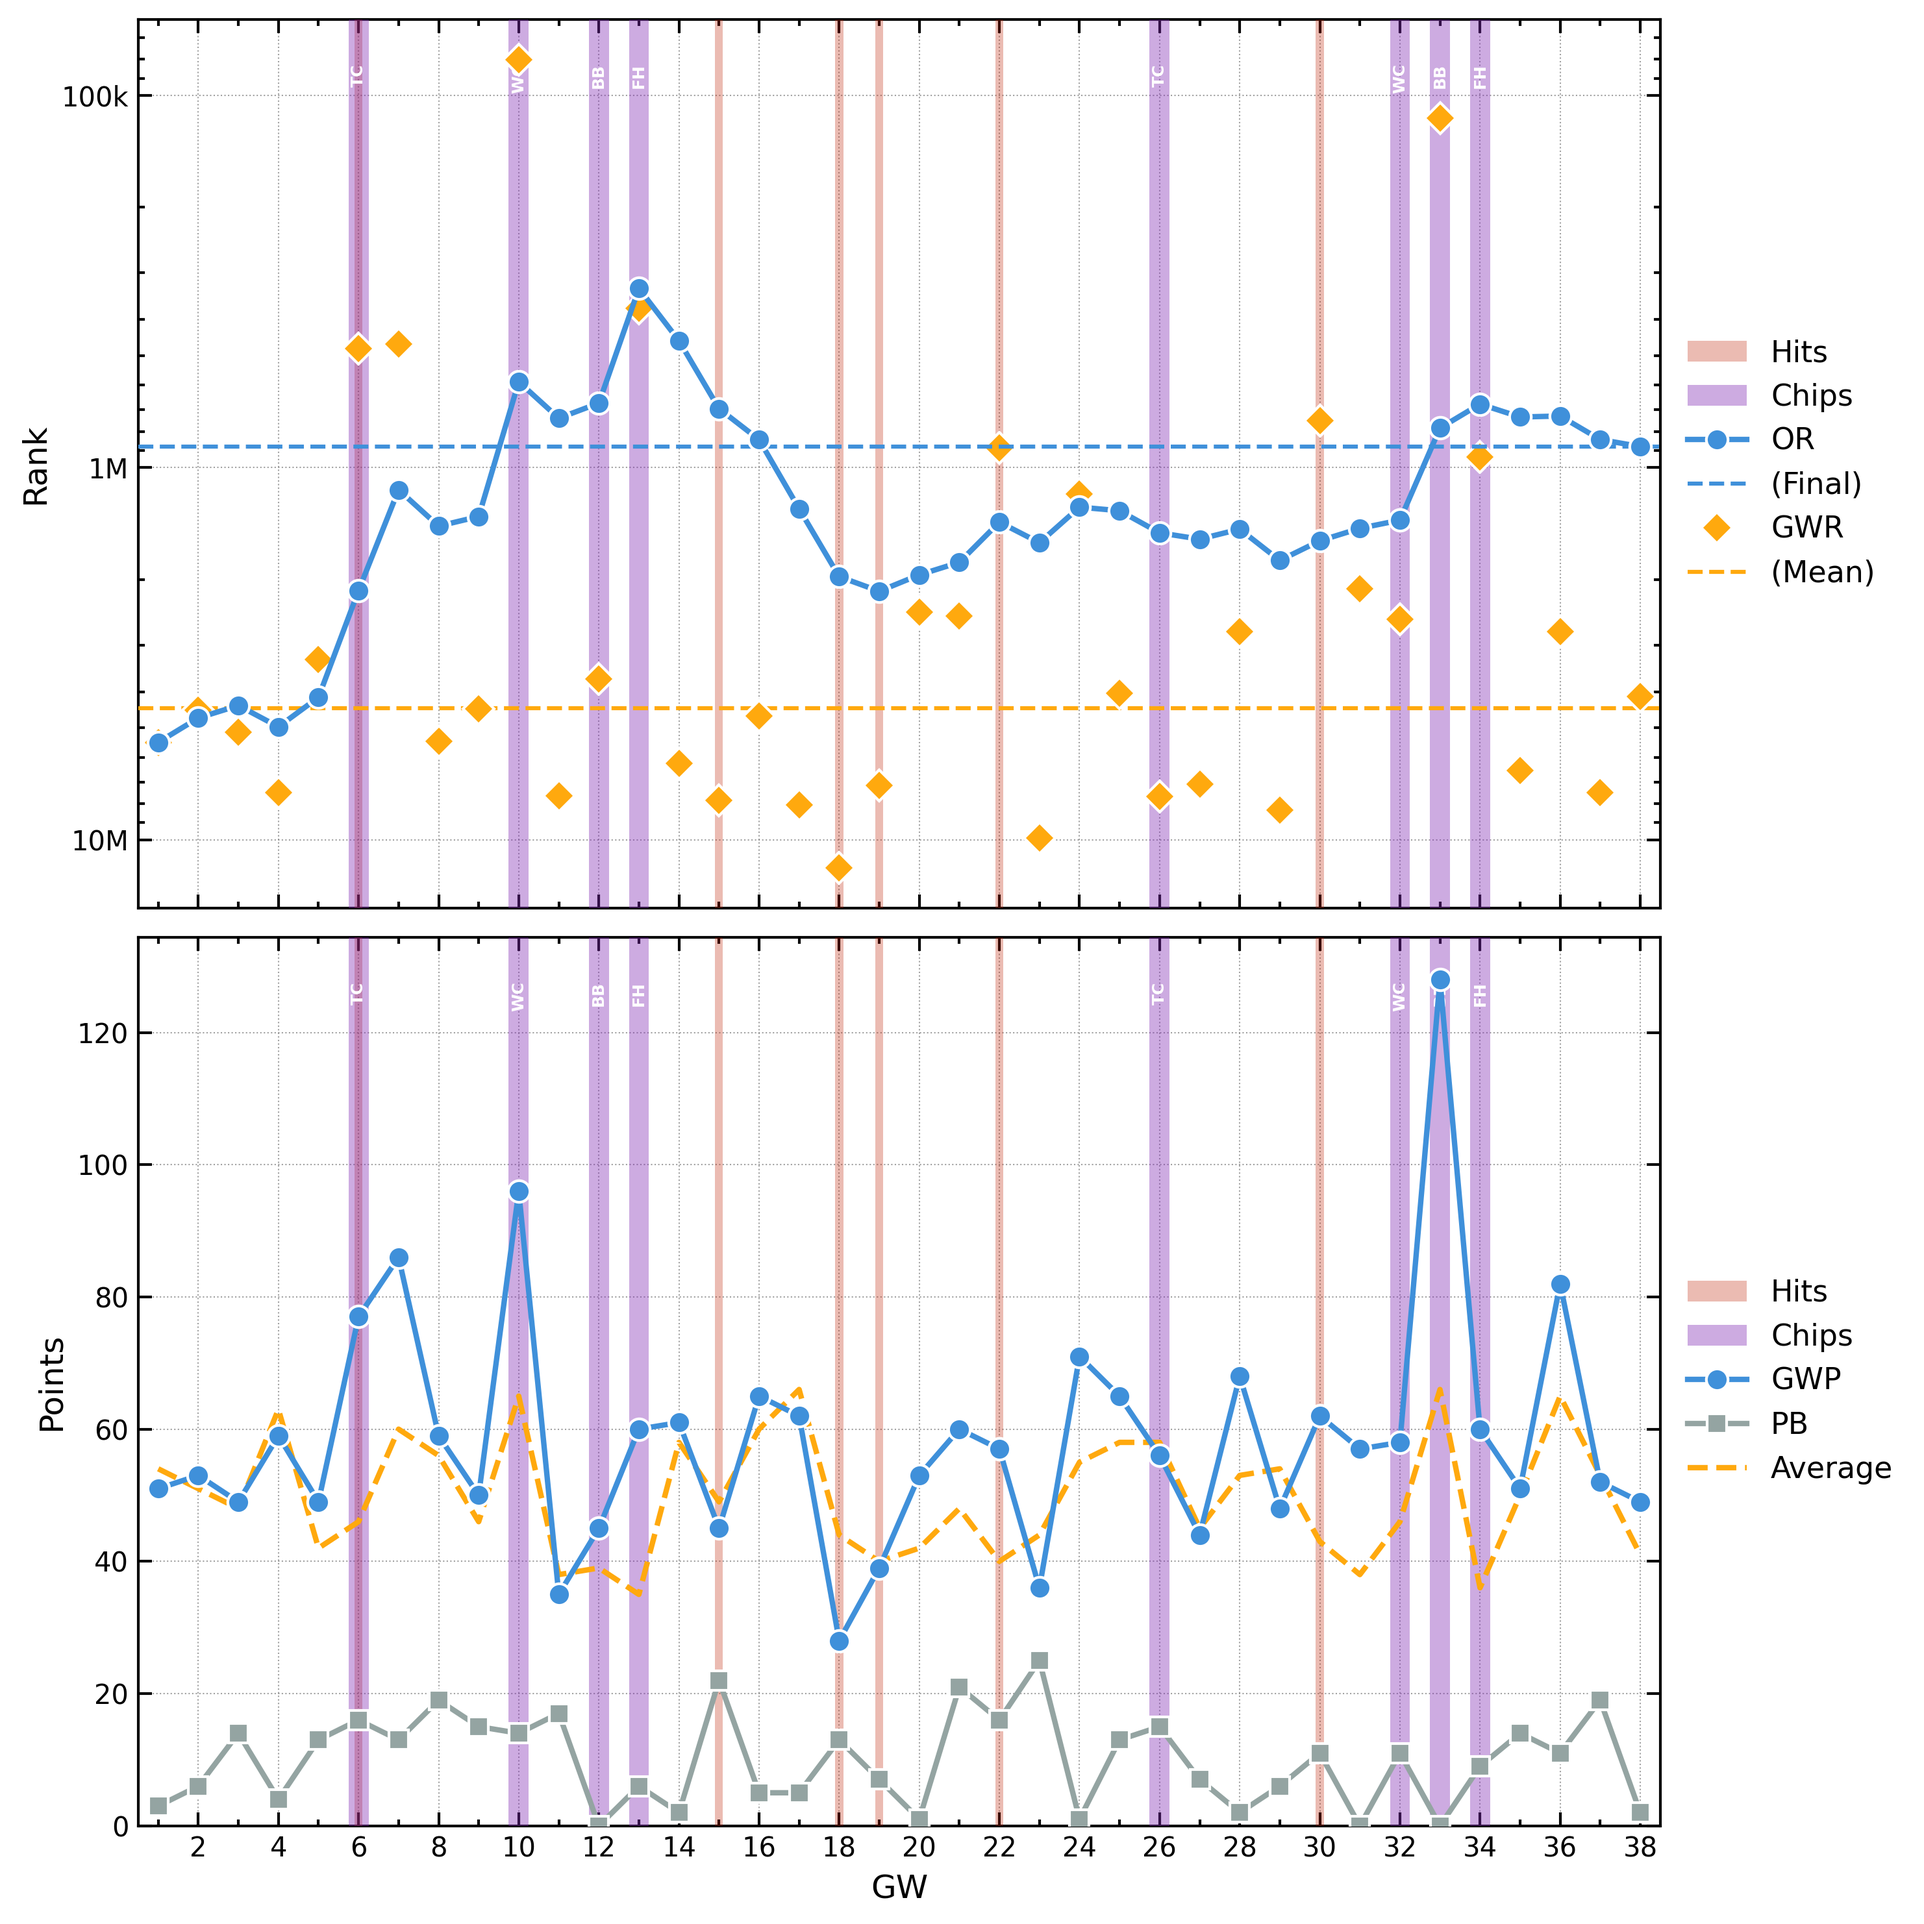
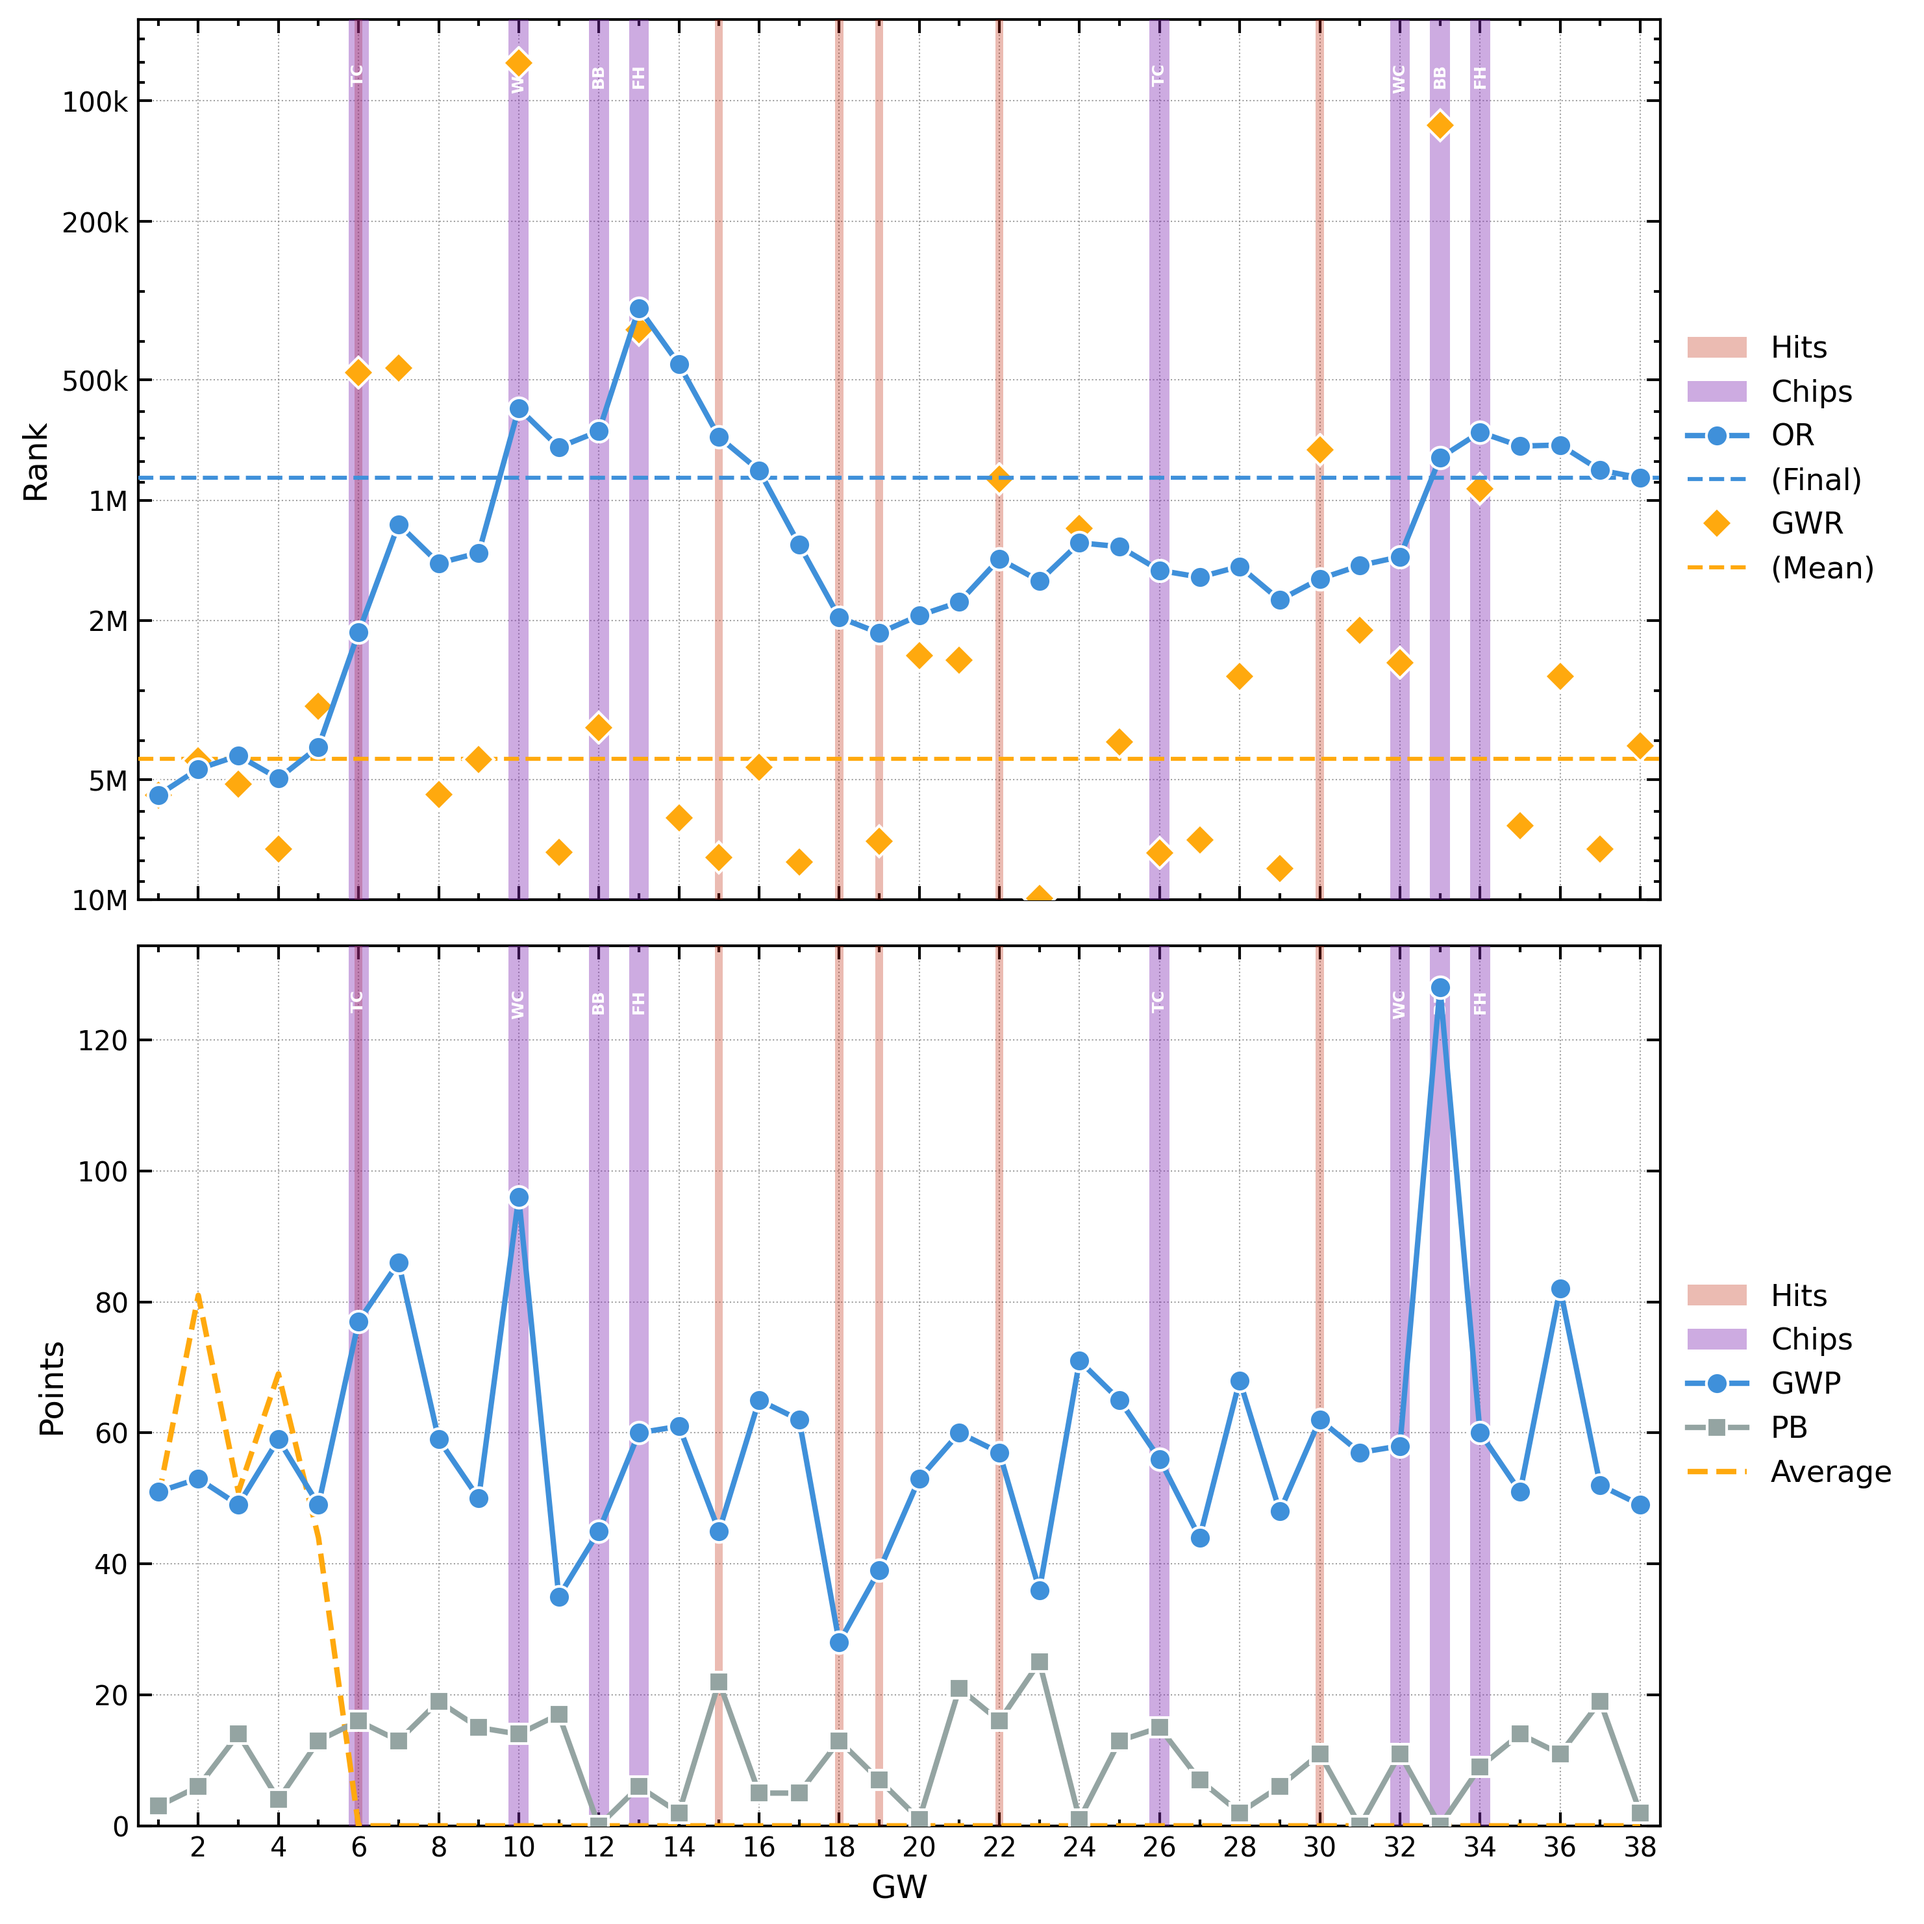
Cap rank y-axis at 10M with 1/2/5 decade ticks (#3)
* Cap rank axis at 10M and add 2x/5x decade ticks

Caps the worst-rank end of the log y-axis at 10M (tighter if data
allows) instead of letting it grow unbounded, and adds major ticks at
1x/2x/5x per decade so labels like 500k, 2M, 5M appear alongside the
existing powers of ten.

Claude-Session: https://claude.ai/code/session_01XA91YR1Gj6eRh5VAtAL1CS

* Round rank axis cap to the nearest nice tick instead of raw autoscale

matplotlib's default log-scale margin left the axis bottom at an
arbitrary value like 9.09M, which landed between the 5M and 10M
ticks and clipped the 10M label out of view. Now the bound is
rounded up to the next 1/2/5-per-decade tick (still capped at 10M),
so the axis edge always lands on a labeled gridline.

Claude-Session: https://claude.ai/code/session_01XA91YR1Gj6eRh5VAtAL1CS

---------

diff --git a/visualize.py b/visualize.py
@@ -3,7 +3,7 @@
 import csv
 from pathlib import Path
 import matplotlib.pyplot as plt
-from matplotlib.ticker import MultipleLocator, FuncFormatter
+from matplotlib.ticker import MultipleLocator, FuncFormatter, LogLocator
 import numpy as np
 
 plt.style.use(["petroff10", Path(__file__).parent / "fplot.mplstyle"])
@@ -108,6 +108,18 @@ def load_fpl_data(csv_path):
         data[key] = [data[key][i] for i in sorted_indices]
 
     return data
+
+
+def next_nice_rank_bound(value, cap=1e7):
+    """Round value up to the next 1/2/5 * 10^n tick, capped at `cap`."""
+    value = min(value, cap)
+    exponent = int(np.floor(np.log10(value))) - 1
+    while True:
+        for m in (1, 2, 5):
+            candidate = m * (10.0**exponent)
+            if candidate >= value:
+                return min(candidate, cap)
+        exponent += 1
 
 
 def format_rank(value, pos):
@@ -425,6 +437,12 @@ def plot_rank_evolution(csv_path, ax=None):
     ax.set_yscale("log")
     ax.invert_yaxis()  # Invert so better ranks (lower values) are at the top
 
+    # Cap the worst-rank end of the axis at the next nice tick, max 10M
+    worst_rank = max(data["or_vals"] + [g for g in data["gwr"] if g is not None])
+    bottom = next_nice_rank_bound(worst_rank, cap=1e7)
+    _, top = ax.get_ylim()
+    ax.set_ylim(bottom, top)
+
     # Set x-axis limits and ticks
     ax.set_xlim(0.5, 38.5)
 
@@ -432,7 +450,8 @@ def plot_rank_evolution(csv_path, ax=None):
     ax.xaxis.set_major_locator(MultipleLocator(2))
     ax.xaxis.set_minor_locator(MultipleLocator(1))
 
-    # Y-axis: custom formatter for human-readable ranks
+    # Y-axis: ticks at 1x/2x/5x per decade (e.g. 500k, 1M, 2M, 5M, 10M)
+    ax.yaxis.set_major_locator(LogLocator(base=10, subs=(1, 2, 5)))
     ax.yaxis.set_major_formatter(FuncFormatter(format_rank))
 
     # Labels
